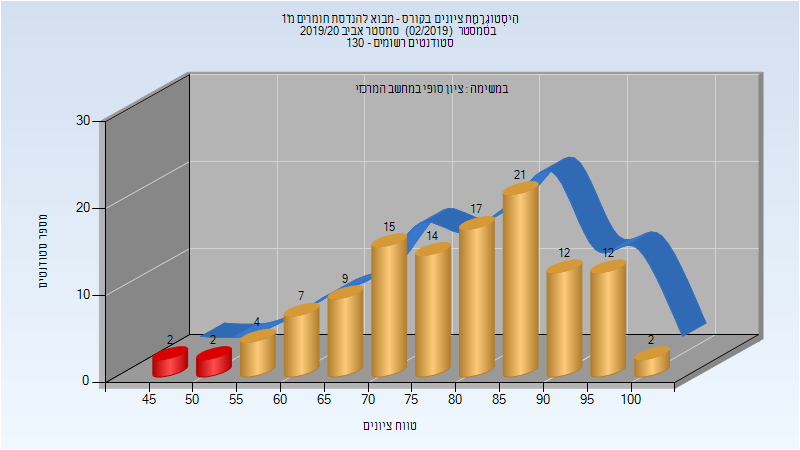
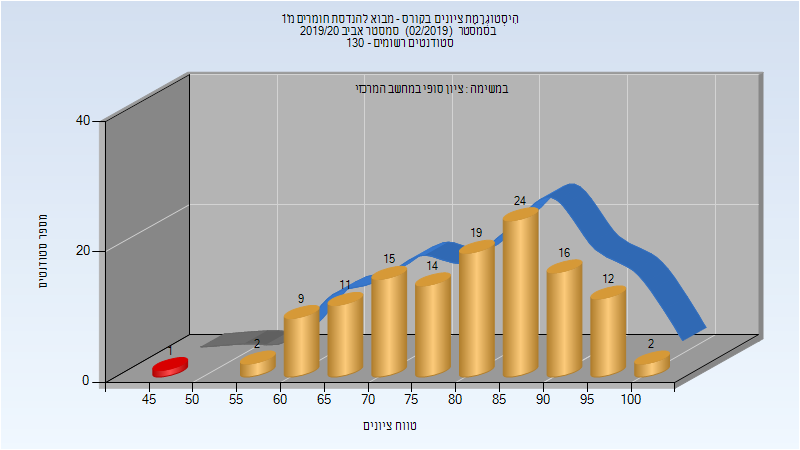
Deploy michael-maltsev/technion-histograms to github.com/michael-maltsev/technion-histograms.git:gh-pages

diff --git a/314533/index.html b/314533/index.html
@@ -729,6 +729,32 @@
 </tr>
 </tbody>
 </table>
+<h3>סופי מועד ב'</h3>
+<p><img src="201902/Final_B.png" alt="201902 Final_B" /></p>
+<table>
+<thead>
+<tr>
+<th>סטודנטים</th>
+<th>עברו/נכשלו</th>
+<th>אחוז עוברים</th>
+<th>ציון מינימלי</th>
+<th>ציון מקסימלי</th>
+<th>ממוצע</th>
+<th>חציון</th>
+</tr>
+</thead>
+<tbody>
+<tr>
+<td>17</td>
+<td>17/0</td>
+<td>100</td>
+<td>62</td>
+<td>94</td>
+<td>78.824</td>
+<td>81</td>
+</tr>
+</tbody>
+</table>
 <h3>סופי</h3>
 <p><img src="201902/Finals.png" alt="201902 Finals" /></p>
 <table>
@@ -745,13 +771,13 @@
 </thead>
 <tbody>
 <tr>
-<td>117</td>
-<td>113/4</td>
-<td>97</td>
+<td>125</td>
+<td>124/1</td>
+<td>99</td>
 <td>45</td>
 <td>100</td>
-<td>79.496</td>
-<td>81</td>
+<td>80.72</td>
+<td>82</td>
 </tr>
 </tbody>
 </table>

diff --git a/125013/index.html b/125013/index.html
@@ -1152,11 +1152,11 @@
 </thead>
 <tbody>
 <tr>
-<td>עמירב דרורי לילך</td>
+<td>דה-רויטר גרהם</td>
 <td>מדריך מעבדה - עם הרשאות מרצה אחראי</td>
 </tr>
 <tr>
-<td>דה-רויטר גרהם</td>
+<td>עמירב דרורי לילך</td>
 <td></td>
 </tr>
 <tr>

diff --git a/314533/README.md b/314533/README.md
@@ -225,11 +225,19 @@
 | ---- | ---- | ---- | ---- | ---- | ---- | ---- |
 | 117 | 113/4 | 97 | 45 | 100 | 79.496 | 81 |
 
+### סופי מועד ב'
+
+![201902 Final_B](201902/Final_B.png)
+
+| סטודנטים | עברו/נכשלו | אחוז עוברים | ציון מינימלי | ציון מקסימלי | ממוצע | חציון |
+| ---- | ---- | ---- | ---- | ---- | ---- | ---- |
+| 17 | 17/0 | 100 | 62 | 94 | 78.824 | 81 |
+
 ### סופי
 
 ![201902 Finals](201902/Finals.png)
 
 | סטודנטים | עברו/נכשלו | אחוז עוברים | ציון מינימלי | ציון מקסימלי | ממוצע | חציון |
 | ---- | ---- | ---- | ---- | ---- | ---- | ---- |
-| 117 | 113/4 | 97 | 45 | 100 | 79.496 | 81 |
+| 125 | 124/1 | 99 | 45 | 100 | 80.72 | 82 |
 

diff --git a/125013/README.md b/125013/README.md
@@ -339,8 +339,8 @@
 
 | איש סגל | תפקיד |
 | ---- | ---- |
-| עמירב דרורי לילך | מדריך מעבדה - עם הרשאות מרצה אחראי |
-| דה-רויטר גרהם |  |
+| דה-רויטר גרהם | מדריך מעבדה - עם הרשאות מרצה אחראי |
+| עמירב דרורי לילך |  |
 | אגמי איריס | מדריך מעבדה |
 | פוקרא מוחמד | מדריך מעבדה |
 | מג'דוב מחמוד | מדריך מעבדה |
